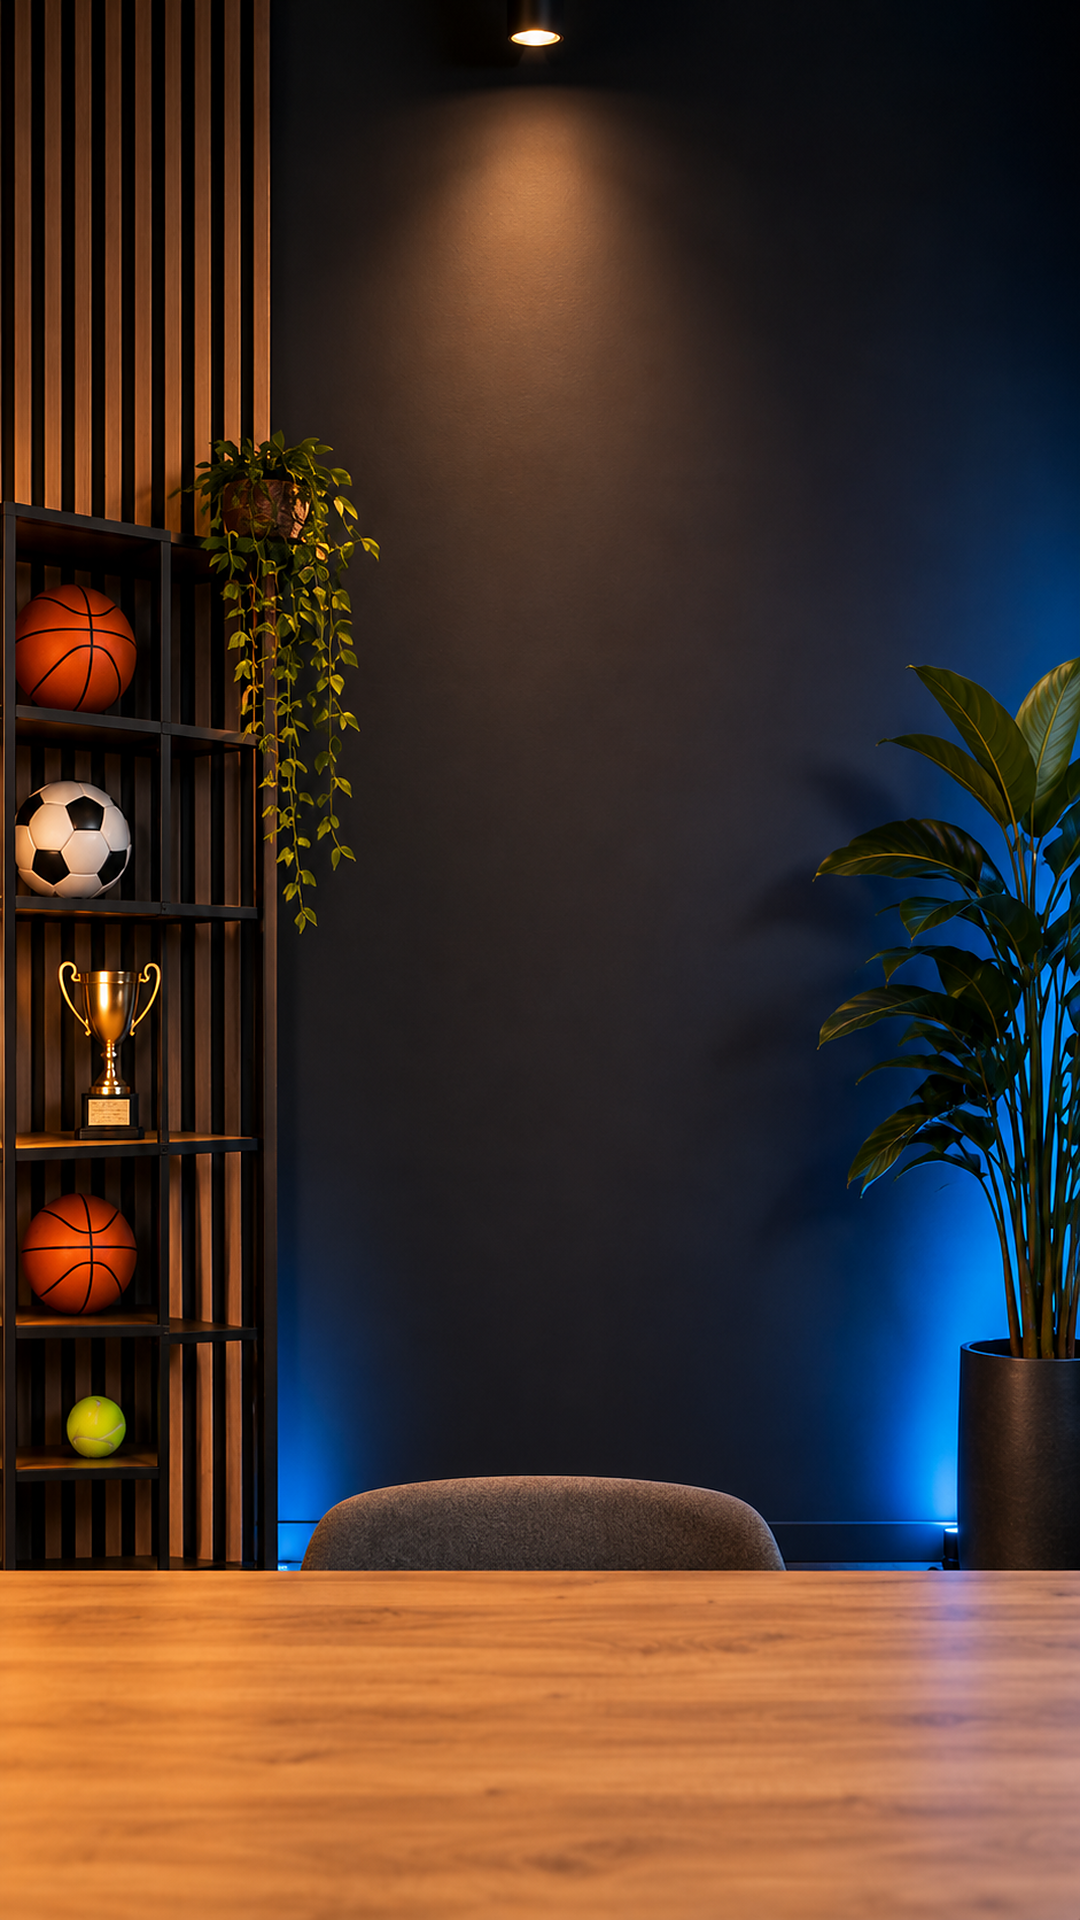
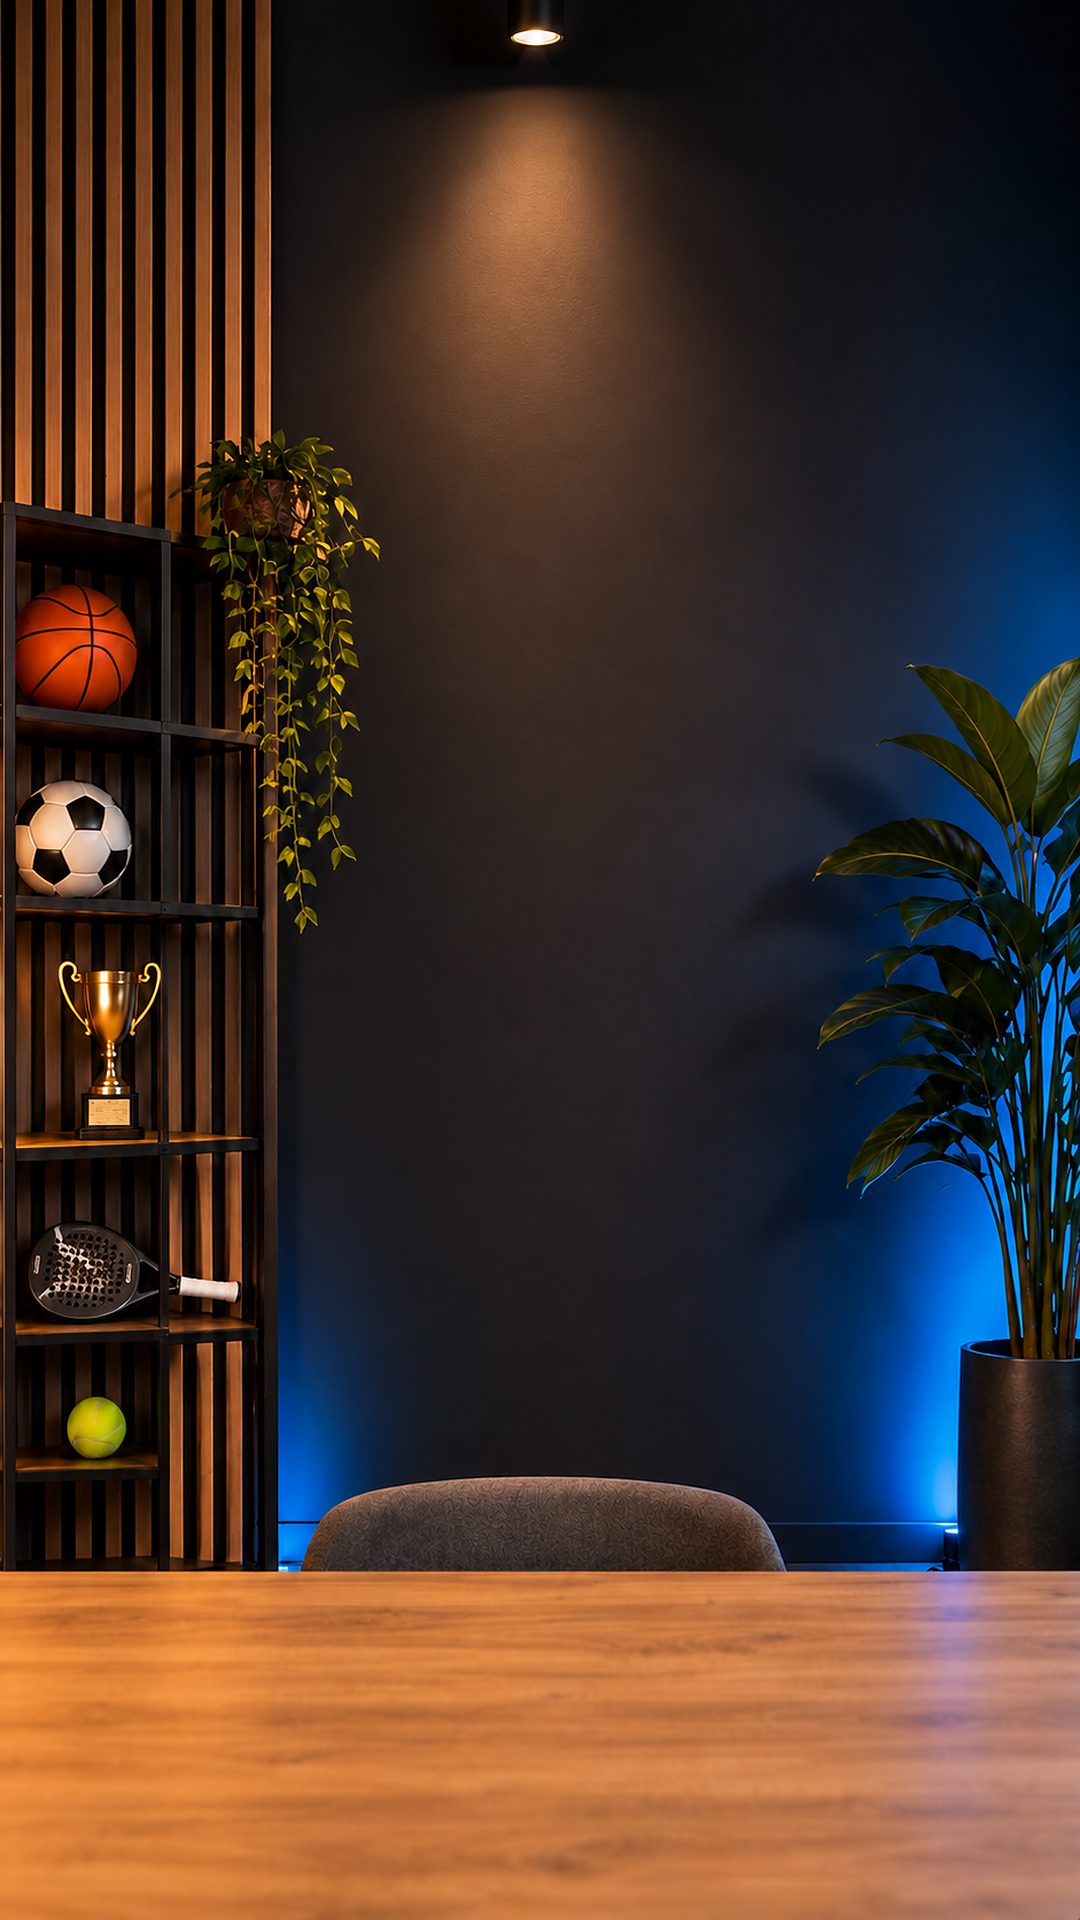
Studio: padelracket in de kast
Claude-Session: https://claude.ai/code/session_01QkSWZzWLTduRQtPp2zathG

diff --git a/instagram/studio/README.md b/instagram/studio/README.md
@@ -5,4 +5,4 @@ Nog te testen met een eerste opname.
 
 8/11: 6 AI-varianten (ai-varianten-8-11.png, te lage resolutie). Test met neonlogo: test-neonlogo.png. Voorkeur: rechtsonder (rek met voetbal, basketbal, trofee, bureau vooraan) of rechtsboven. Nodig: gekozen beeld opnieuw als 1 beeld in 9:16, hoge resolutie. Jari zit achter het bureau (bureaurand komt als laag over hem).
 
-**Definitief (8/11):** studio-sgm.png (1080x1920, ChatGPT-beeld + neonlogo S/G, node neon.js). Bureau als voorgrondlaag: studio-bureau-laag.png (y 1513-1920). Jari zit achter het bureau, hoofd ±y 1000-1300, logo erboven.
+**Definitief (8/11):** studio-sgm.png (1080x1920, ChatGPT-beeld studio-bron-chatgpt.png met padelracket i.p.v. 2e basketbal + neonlogo S/G + SPORTGROWTH MEDIA, node neon.js). Bureau als voorgrondlaag: studio-bureau-laag.png (y 1513-1920). Jari zit achter het bureau, hoofd ±y 1000-1300, logo erboven.
